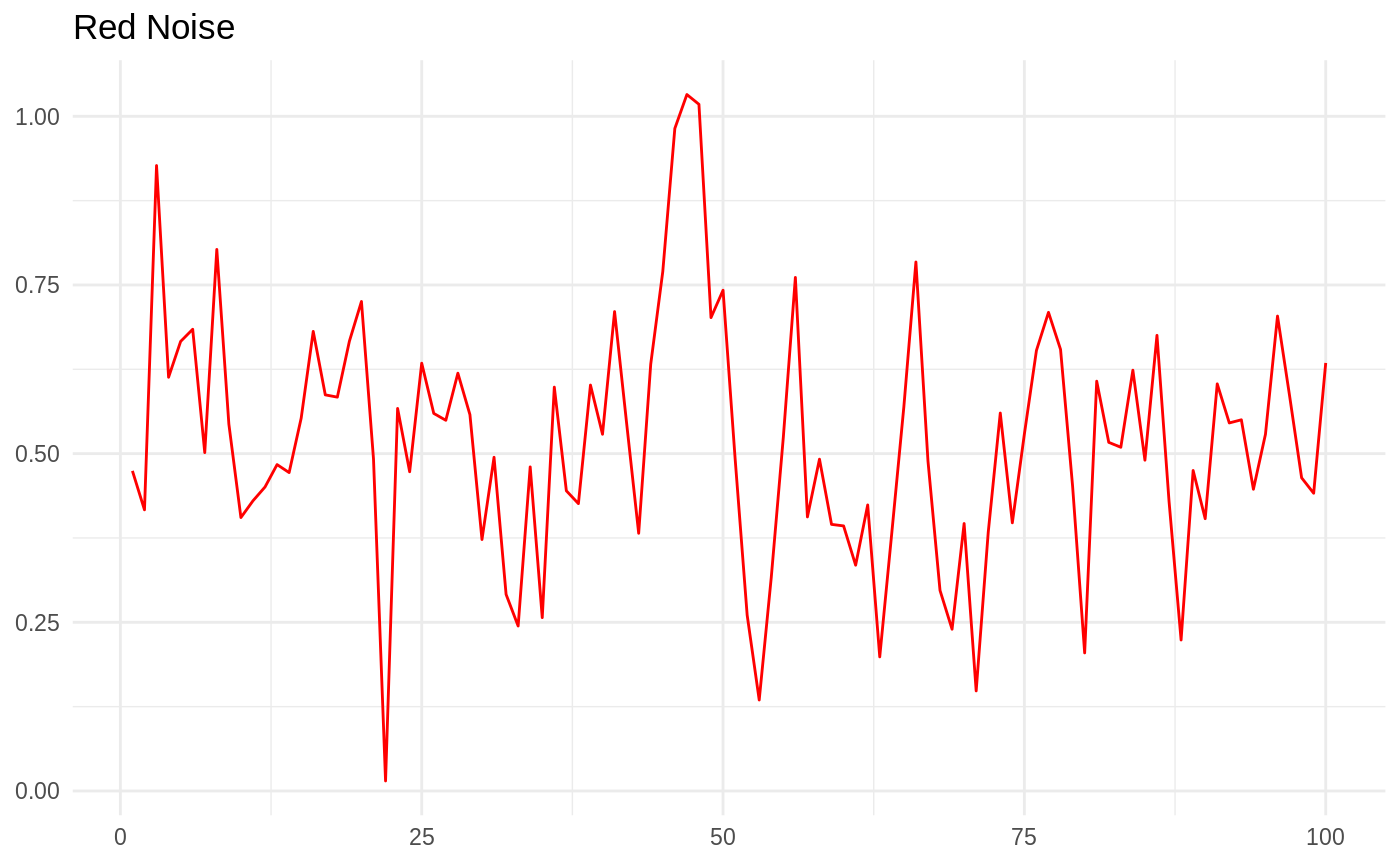
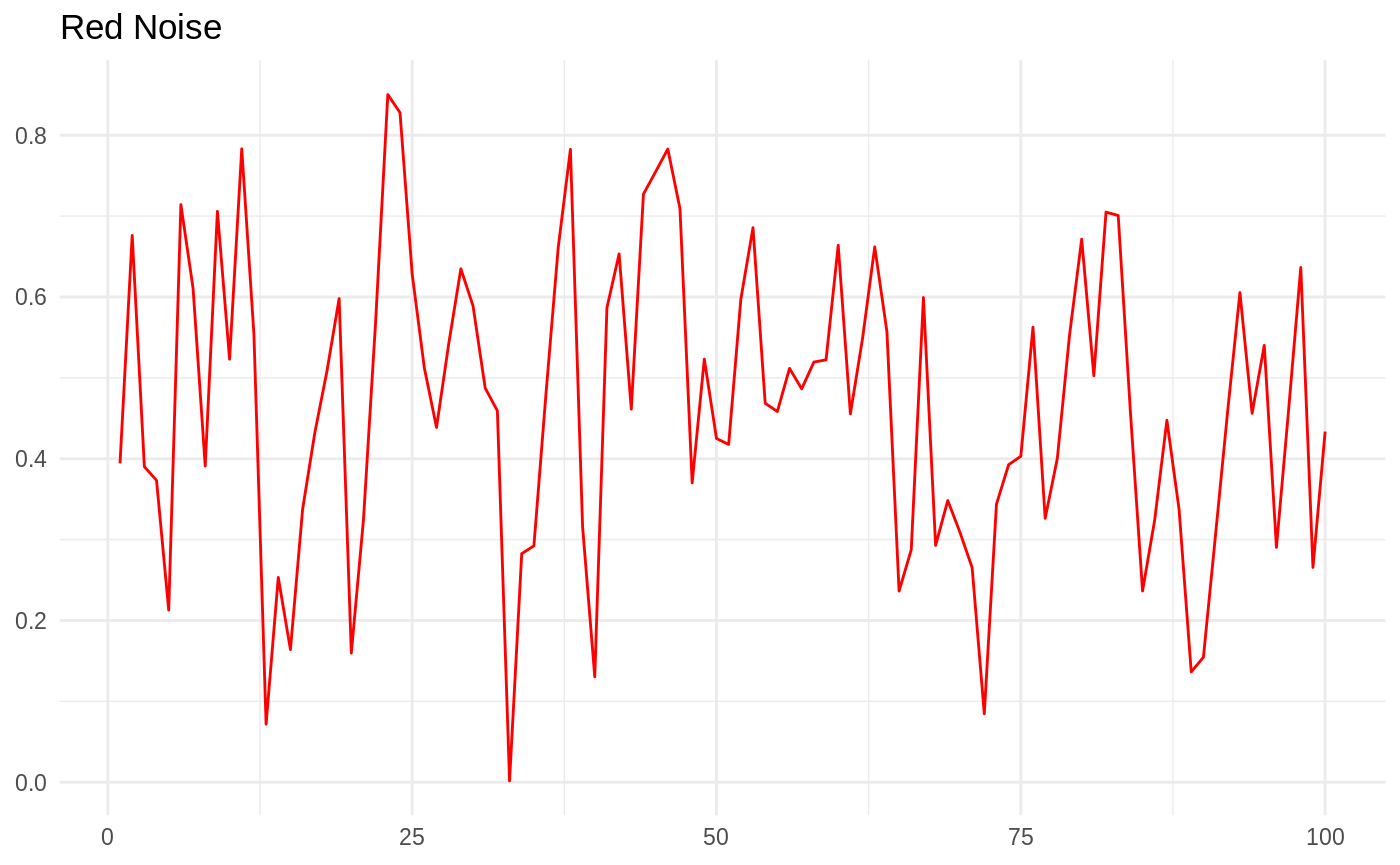
Deploy japilo/colorednoise to github.com/japilo/colorednoise.git:gh-pages

diff --git a/articles/noise.html b/articles/noise.html
@@ -111,12 +111,12 @@
 <p>To show you how you can use this package to simulate and analyze colored noise, I will present a problem for us to solve. Let’s say we want to find out whether our estimates of temporal autocorrelation are biased when the standard deviation of the colored noise is high. First, let’s use the <code>raw_noise</code> function to generate some colored noise with high variance.</p>
 <div class="sourceCode" id="cb1"><pre class="sourceCode r"><code class="sourceCode r"><a class="sourceLine" id="cb1-1" data-line-number="1">red &lt;-<span class="st"> </span><span class="kw">colored_noise</span>(<span class="dt">timesteps =</span> <span class="dv">100</span>, <span class="dt">mean =</span> <span class="fl">0.3</span>, <span class="dt">sd =</span> <span class="fl">1.2</span>, <span class="dt">phi =</span> <span class="fl">0.5</span>)</a>
 <a class="sourceLine" id="cb1-2" data-line-number="2">red[<span class="dv">1</span><span class="op">:</span><span class="dv">10</span>]</a>
-<a class="sourceLine" id="cb1-3" data-line-number="3"><span class="co">#&gt;  [1] -0.03608948  1.63169850  1.04557602  0.38599421  0.51735002</span></a>
-<a class="sourceLine" id="cb1-4" data-line-number="4"><span class="co">#&gt;  [6]  2.37428273  2.69055284  1.85813443 -0.22472962 -1.34690256</span></a>
+<a class="sourceLine" id="cb1-3" data-line-number="3"><span class="co">#&gt;  [1]  2.6182657  1.0604915  0.3157439  1.3333019  0.6826653  0.5504005</span></a>
+<a class="sourceLine" id="cb1-4" data-line-number="4"><span class="co">#&gt;  [7]  2.2327260  2.1626704 -0.2227723  1.3252492</span></a>
 <a class="sourceLine" id="cb1-5" data-line-number="5">blue &lt;-<span class="st"> </span><span class="kw">colored_noise</span>(<span class="dt">timesteps =</span> <span class="dv">100</span>, <span class="dt">mean =</span> <span class="fl">0.3</span>, <span class="dt">sd =</span> <span class="fl">1.2</span>, <span class="dt">phi =</span> <span class="fl">-0.5</span>)</a>
 <a class="sourceLine" id="cb1-6" data-line-number="6">blue[<span class="dv">1</span><span class="op">:</span><span class="dv">10</span>]</a>
-<a class="sourceLine" id="cb1-7" data-line-number="7"><span class="co">#&gt;  [1]  0.7567656 -0.1013890  1.3078604 -1.7443458  1.6148913 -1.7742617</span></a>
-<a class="sourceLine" id="cb1-8" data-line-number="8"><span class="co">#&gt;  [7]  2.4339906 -0.1120772  0.3122944  1.6625065</span></a>
+<a class="sourceLine" id="cb1-7" data-line-number="7"><span class="co">#&gt;  [1] -0.3241633  2.2331385  0.8572998 -0.7672335  0.8470344  0.1302447</span></a>
+<a class="sourceLine" id="cb1-8" data-line-number="8"><span class="co">#&gt;  [7] -0.1347675  0.3931154 -1.1753793  0.1932253</span></a>
 <a class="sourceLine" id="cb1-9" data-line-number="9"><span class="kw">ggplot</span>(<span class="dt">data =</span> <span class="ot">NULL</span>, <span class="kw">aes</span>(<span class="dt">x =</span> <span class="kw"><a href="https://rdrr.io/r/base/c.html">c</a></span>(<span class="dv">1</span><span class="op">:</span><span class="dv">100</span>), <span class="dt">y =</span> blue)) <span class="op">+</span><span class="st"> </span><span class="kw">geom_line</span>(<span class="dt">color=</span><span class="st">"blue"</span>) <span class="op">+</span><span class="st"> </span><span class="kw">theme_minimal</span>() <span class="op">+</span><span class="st"> </span><span class="kw">theme</span>(<span class="dt">axis.title =</span> <span class="kw">element_blank</span>()) <span class="op">+</span><span class="st"> </span><span class="kw">ggtitle</span>(<span class="st">"Blue Noise"</span>)</a></code></pre></div>
 <p><img src="noise_files/figure-html/generate%20noise-1.png" width="700"></p>
 <div class="sourceCode" id="cb2"><pre class="sourceCode r"><code class="sourceCode r"><a class="sourceLine" id="cb2-1" data-line-number="1"><span class="kw">ggplot</span>(<span class="dt">data =</span> <span class="ot">NULL</span>, <span class="kw">aes</span>(<span class="dt">x =</span> <span class="kw"><a href="https://rdrr.io/r/base/c.html">c</a></span>(<span class="dv">1</span><span class="op">:</span><span class="dv">100</span>), <span class="dt">y =</span> red)) <span class="op">+</span><span class="st"> </span><span class="kw">geom_line</span>(<span class="dt">color=</span><span class="st">"red"</span>) <span class="op">+</span><span class="st"> </span><span class="kw">theme_minimal</span>() <span class="op">+</span><span class="st"> </span><span class="kw">theme</span>(<span class="dt">axis.title =</span> <span class="kw">element_blank</span>()) <span class="op">+</span><span class="st"> </span><span class="kw">ggtitle</span>(<span class="st">"Red Noise"</span>)</a></code></pre></div>
@@ -124,22 +124,22 @@
 <p>The red noise and blue noise look the way they should. Now let’s estimate the mean, SD, and autocorrelation of these two sets of random numbers to see how well they match the parameters we used to generate them.</p>
 <div class="sourceCode" id="cb3"><pre class="sourceCode r"><code class="sourceCode r"><a class="sourceLine" id="cb3-1" data-line-number="1"><span class="kw">invoke_map</span>(<span class="kw"><a href="https://rdrr.io/r/base/list.html">list</a></span>(mean, sd, autocorrelation), <span class="kw"><a href="https://rdrr.io/r/base/rep.html">rep</a></span>(<span class="kw"><a href="https://rdrr.io/r/base/list.html">list</a></span>(<span class="kw"><a href="https://rdrr.io/r/base/list.html">list</a></span>(red)), <span class="dv">3</span>))</a>
 <a class="sourceLine" id="cb3-2" data-line-number="2"><span class="co">#&gt; [[1]]</span></a>
-<a class="sourceLine" id="cb3-3" data-line-number="3"><span class="co">#&gt; [1] 0.7291328</span></a>
+<a class="sourceLine" id="cb3-3" data-line-number="3"><span class="co">#&gt; [1] 0.3820004</span></a>
 <a class="sourceLine" id="cb3-4" data-line-number="4"><span class="co">#&gt; </span></a>
 <a class="sourceLine" id="cb3-5" data-line-number="5"><span class="co">#&gt; [[2]]</span></a>
-<a class="sourceLine" id="cb3-6" data-line-number="6"><span class="co">#&gt; [1] 1.126842</span></a>
+<a class="sourceLine" id="cb3-6" data-line-number="6"><span class="co">#&gt; [1] 1.380568</span></a>
 <a class="sourceLine" id="cb3-7" data-line-number="7"><span class="co">#&gt; </span></a>
 <a class="sourceLine" id="cb3-8" data-line-number="8"><span class="co">#&gt; [[3]]</span></a>
-<a class="sourceLine" id="cb3-9" data-line-number="9"><span class="co">#&gt; [1] 0.5208633</span></a>
+<a class="sourceLine" id="cb3-9" data-line-number="9"><span class="co">#&gt; [1] 0.5325273</span></a>
 <a class="sourceLine" id="cb3-10" data-line-number="10"><span class="kw">invoke_map</span>(<span class="kw"><a href="https://rdrr.io/r/base/list.html">list</a></span>(mean, sd, autocorrelation), <span class="kw"><a href="https://rdrr.io/r/base/rep.html">rep</a></span>(<span class="kw"><a href="https://rdrr.io/r/base/list.html">list</a></span>(<span class="kw"><a href="https://rdrr.io/r/base/list.html">list</a></span>(blue)), <span class="dv">3</span>))</a>
 <a class="sourceLine" id="cb3-11" data-line-number="11"><span class="co">#&gt; [[1]]</span></a>
-<a class="sourceLine" id="cb3-12" data-line-number="12"><span class="co">#&gt; [1] 0.2316835</span></a>
+<a class="sourceLine" id="cb3-12" data-line-number="12"><span class="co">#&gt; [1] 0.3736086</span></a>
 <a class="sourceLine" id="cb3-13" data-line-number="13"><span class="co">#&gt; </span></a>
 <a class="sourceLine" id="cb3-14" data-line-number="14"><span class="co">#&gt; [[2]]</span></a>
-<a class="sourceLine" id="cb3-15" data-line-number="15"><span class="co">#&gt; [1] 1.315347</span></a>
+<a class="sourceLine" id="cb3-15" data-line-number="15"><span class="co">#&gt; [1] 1.304099</span></a>
 <a class="sourceLine" id="cb3-16" data-line-number="16"><span class="co">#&gt; </span></a>
 <a class="sourceLine" id="cb3-17" data-line-number="17"><span class="co">#&gt; [[3]]</span></a>
-<a class="sourceLine" id="cb3-18" data-line-number="18"><span class="co">#&gt; [1] -0.4902172</span></a></code></pre></div>
+<a class="sourceLine" id="cb3-18" data-line-number="18"><span class="co">#&gt; [1] -0.5223631</span></a></code></pre></div>
 <p>The estimates for these seem to be quite accurate. But let’s try generating a whole lot of colored noise across a range of variance and color and estimating the autocorrelation of each replicate.</p>
 <div class="sourceCode" id="cb4"><pre class="sourceCode r"><code class="sourceCode r"><a class="sourceLine" id="cb4-1" data-line-number="1">raw_sims &lt;-<span class="st"> </span><span class="kw">cross_df</span>(<span class="kw"><a href="https://rdrr.io/r/base/list.html">list</a></span>(<span class="dt">timesteps =</span> <span class="dv">20</span>, <span class="dt">phi =</span> <span class="kw"><a href="https://rdrr.io/r/base/c.html">c</a></span>(<span class="op">-</span><span class="fl">0.5</span>, <span class="dv">0</span>, <span class="fl">0.5</span>), <span class="dt">mean =</span> <span class="fl">0.3</span>, <span class="dt">sd =</span> <span class="kw"><a href="https://rdrr.io/r/base/c.html">c</a></span>(<span class="fl">0.5</span>, <span class="fl">0.7</span>, <span class="fl">0.9</span>, <span class="fl">1.1</span>, <span class="fl">1.3</span>, <span class="fl">1.5</span>))) <span class="op">%&gt;%</span><span class="st"> </span><span class="kw">rerun</span>(<span class="dt">.n =</span> <span class="dv">30</span>, <span class="kw">pmap</span>(., colored_noise))</a>
 <a class="sourceLine" id="cb4-2" data-line-number="2">labels &lt;-<span class="st"> </span>raw_sims <span class="op">%&gt;%</span><span class="st"> </span><span class="kw">map</span>(<span class="dv">1</span>) <span class="op">%&gt;%</span><span class="st"> </span><span class="kw">bind_rows</span>()</a>
@@ -147,13 +147,13 @@
 <a class="sourceLine" id="cb4-4" data-line-number="4">estimates &lt;-<span class="st"> </span><span class="kw"><a href="https://rdrr.io/r/base/data.frame.html">data.frame</a></span>(<span class="dt">mu =</span> <span class="kw">map_dbl</span>(noise, mean), <span class="dt">sigma =</span> <span class="kw">map_dbl</span>(noise, sd), <span class="dt">autocorrelation =</span> <span class="kw">map_dbl</span>(noise, autocorrelation))</a>
 <a class="sourceLine" id="cb4-5" data-line-number="5">sd_range &lt;-<span class="st"> </span><span class="kw"><a href="https://rdrr.io/r/base/cbind.html">cbind</a></span>(labels, estimates)</a>
 <a class="sourceLine" id="cb4-6" data-line-number="6"><span class="kw"><a href="https://rdrr.io/r/utils/head.html">head</a></span>(sd_range)</a>
-<a class="sourceLine" id="cb4-7" data-line-number="7"><span class="co">#&gt;   timesteps  phi mean  sd        mu     sigma autocorrelation</span></a>
-<a class="sourceLine" id="cb4-8" data-line-number="8"><span class="co">#&gt; 1        20 -0.5  0.3 0.5 0.2934144 0.4579396     -0.47874275</span></a>
-<a class="sourceLine" id="cb4-9" data-line-number="9"><span class="co">#&gt; 2        20  0.0  0.3 0.5 0.3047739 0.5765544     -0.10536146</span></a>
-<a class="sourceLine" id="cb4-10" data-line-number="10"><span class="co">#&gt; 3        20  0.5  0.3 0.5 0.3964904 0.5680797      0.52425166</span></a>
-<a class="sourceLine" id="cb4-11" data-line-number="11"><span class="co">#&gt; 4        20 -0.5  0.3 0.7 0.2395526 0.5530052     -0.03885716</span></a>
-<a class="sourceLine" id="cb4-12" data-line-number="12"><span class="co">#&gt; 5        20  0.0  0.3 0.7 0.4847342 0.7934436     -0.07718088</span></a>
-<a class="sourceLine" id="cb4-13" data-line-number="13"><span class="co">#&gt; 6        20  0.5  0.3 0.7 0.6681902 0.8815925      0.74166944</span></a></code></pre></div>
+<a class="sourceLine" id="cb4-7" data-line-number="7"><span class="co">#&gt;   timesteps  phi mean  sd         mu     sigma autocorrelation</span></a>
+<a class="sourceLine" id="cb4-8" data-line-number="8"><span class="co">#&gt; 1        20 -0.5  0.3 0.5 0.32326805 0.7256620     -0.61501714</span></a>
+<a class="sourceLine" id="cb4-9" data-line-number="9"><span class="co">#&gt; 2        20  0.0  0.3 0.5 0.23594633 0.4654293      0.09583683</span></a>
+<a class="sourceLine" id="cb4-10" data-line-number="10"><span class="co">#&gt; 3        20  0.5  0.3 0.5 0.36358539 0.3196189      0.13024128</span></a>
+<a class="sourceLine" id="cb4-11" data-line-number="11"><span class="co">#&gt; 4        20 -0.5  0.3 0.7 0.40211618 0.7828958     -0.71527436</span></a>
+<a class="sourceLine" id="cb4-12" data-line-number="12"><span class="co">#&gt; 5        20  0.0  0.3 0.7 0.09743956 0.8274888     -0.36195194</span></a>
+<a class="sourceLine" id="cb4-13" data-line-number="13"><span class="co">#&gt; 6        20  0.5  0.3 0.7 0.54895528 0.4931341      0.48743845</span></a></code></pre></div>
 <p>We can visualize these results by finding the mean and confidence intervals of the autocorrelation estimates for each combination of variance and noise color, and plotting them out.</p>
 <div class="sourceCode" id="cb5"><pre class="sourceCode r"><code class="sourceCode r"><a class="sourceLine" id="cb5-1" data-line-number="1">sd_range <span class="op">%&gt;%</span><span class="st"> </span><span class="kw">group_by</span>(phi, sd) <span class="op">%&gt;%</span><span class="st"> </span><span class="kw">summarize_at</span>(<span class="kw">funs</span>(<span class="dt">lower.ci =</span> ((<span class="cf">function</span>(bar){<span class="kw"><a href="https://rdrr.io/r/stats/quantile.html">quantile</a></span>(bar, <span class="dt">probs=</span><span class="kw"><a href="https://rdrr.io/r/base/c.html">c</a></span>(<span class="fl">0.05</span>, <span class="fl">0.95</span>))[[<span class="dv">1</span>]]})(.)),</a>
 <a class="sourceLine" id="cb5-2" data-line-number="2">           <span class="dt">upper.ci =</span> ((<span class="cf">function</span>(bar){<span class="kw"><a href="https://rdrr.io/r/stats/quantile.html">quantile</a></span>(bar, <span class="dt">probs=</span><span class="kw"><a href="https://rdrr.io/r/base/c.html">c</a></span>(<span class="fl">0.05</span>, <span class="fl">0.95</span>))[[<span class="dv">2</span>]]})(.)),</a>
